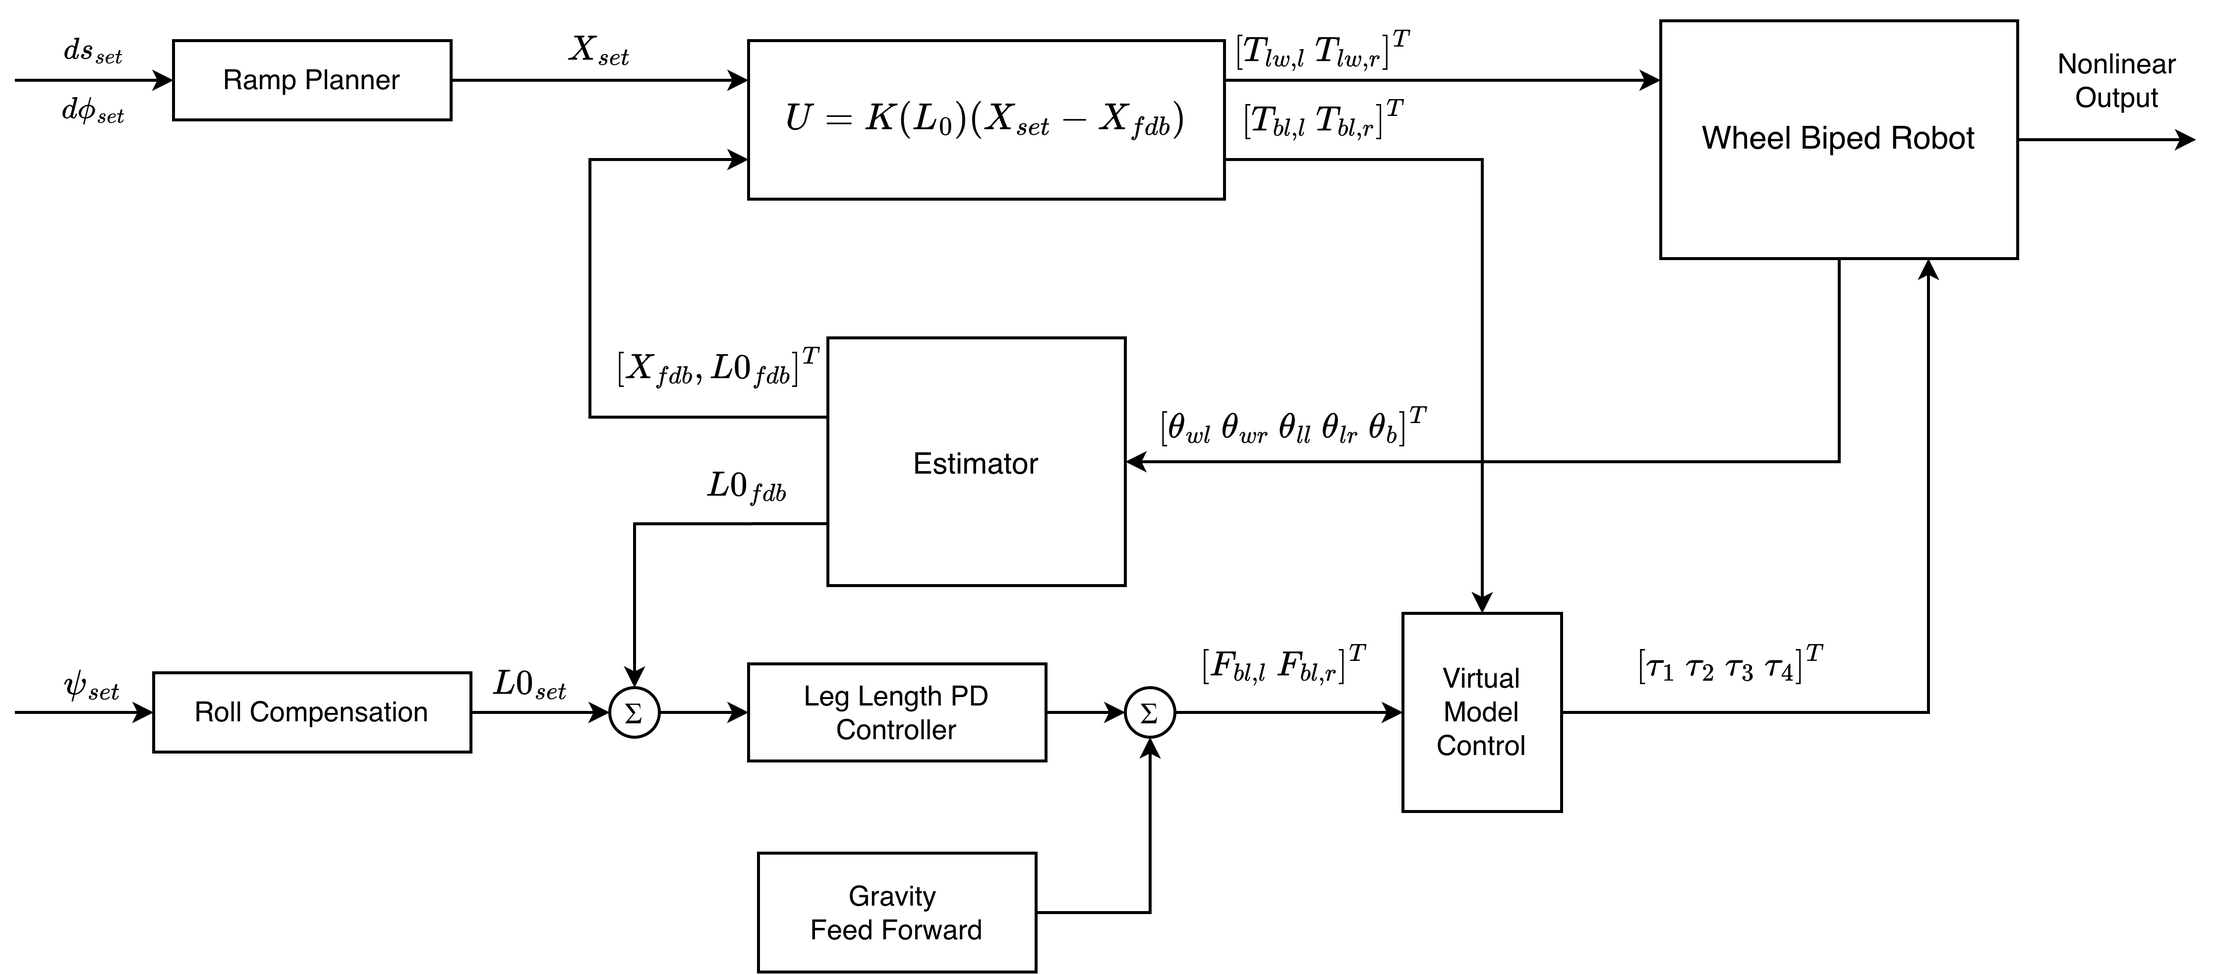
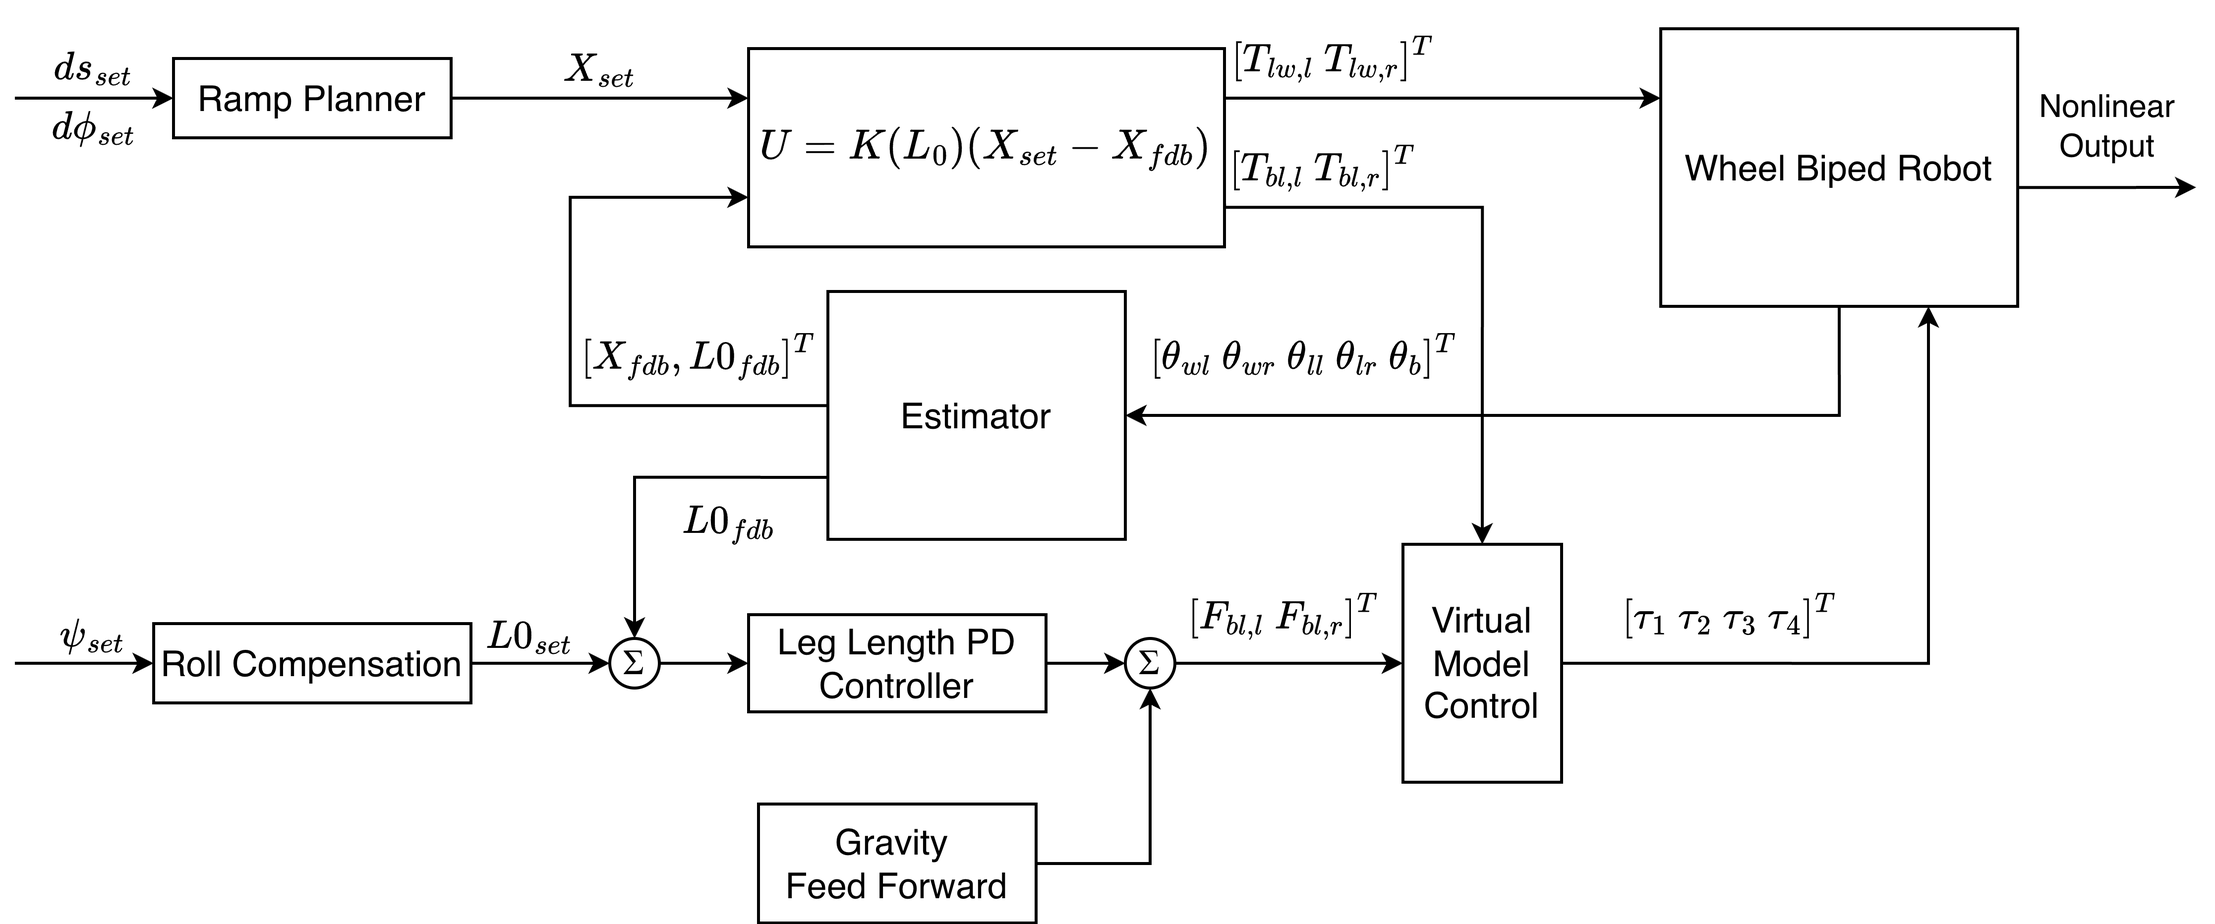
Add new synctex file for main document

diff --git a/chapters/02_mechanical_design.tex b/chapters/02_mechanical_design.tex
@@ -41,7 +41,7 @@
 
 \begin{figure}[H]
   \centering
-  \includegraphics[width=0.52\textwidth]{figures/ch02/image1.png}
+  \includegraphics[width=0.6\textwidth]{figures/ch02/image1.png}
   \caption{腿部连杆机构简图}
   \label{fig:leg-linkage}
 \end{figure}
@@ -56,20 +56,15 @@
   \item 主支撑杆长度：$GI = 160\,\mathrm{mm}$，该尺寸用于形成主要承载支链。
 \end{itemize}
 
-当腿部机构接近最大伸展姿态时，可估算足端最大高度为
-
+当腿部机构接近最大伸展姿态时，可估算足端最大高度为：
 \begin{equation}
   H_{\max} = AB + BC = 160 + 196 = 356\,\mathrm{mm}
 \end{equation}
-
 受机械限位和传动角限制，设定曲柄向上旋转的极限夹角约为水平以上 $30^\circ$，此时腿部最小收缩高度约为
-
 \begin{equation}
   H_{\min} \approx 100\,\mathrm{mm}
 \end{equation}
-
-由此得到腿部有效伸缩行程为
-
+由此得到腿部有效伸缩行程为：
 \begin{equation}
   S_{\mathrm{eff}} = H_{\max} - H_{\min} \approx 256\,\mathrm{mm}
 \end{equation}
@@ -89,16 +84,13 @@
   \centering
   \caption{腿部连杆参数汇总}\label{tab:link-lengths}
   \renewcommand{\arraystretch}{1.2}
-  \begin{tabular}{cc}
+  \begin{tabular}{cccc}
     \toprule
-    连杆代号 & 长度/m \\
+    连杆代号 & 长度/m & 连杆代号 & 长度/m \\
     \midrule
-    AF & 0.08640 \\
-    FG & 0.10584 \\
-    GI & 0.16000 \\
-    IJ & 0.07360 \\
-    JC & 0.25016 \\
-    AB & 0.16000 \\
+    AF & 0.08640 & FG & 0.10584 \\
+    GI & 0.16000 & IJ & 0.07360 \\
+    JC & 0.25016 & AB & 0.16000 \\
     \bottomrule
   \end{tabular}
 \end{table}
@@ -116,6 +108,7 @@
 
 左右髋关节安装结构与躯干框架一体设计。两侧髋部之间采用镂空板材连接，形成近似箱式的承载结构；躯干上方安装 3D 打印电池架，便于固定和拆装电池；主控板、电源模块和驱动器布置在躯干内部或侧面安装区域。这样可以让腿部驱动电机、电池和控制硬件尽量靠近整机中心，减少不必要的偏置载荷。
 
+主要承载板件优先采用碳纤维板材或 7075/6061 铝合金加工。碳纤维板材比刚度较高，适合用于侧板和连接板；铝合金更适合轴承座、电机座等需要较高加工精度的部位。电池架、线束固定件等非主要受力部件采用 3D 打印件，便于快速修改结构。
 \begin{figure}[H]
   \centering
   \includegraphics[width=0.6\textwidth]{figures/ch02/image4.png}
@@ -123,7 +116,6 @@
   \label{fig:body-structure}
 \end{figure}
 
-主要承载板件优先采用碳纤维板材或 7075/6061 铝合金加工。碳纤维板材比刚度较高，适合用于侧板和连接板；铝合金更适合轴承座、电机座等需要较高加工精度的部位。电池架、线束固定件等非主要受力部件采用 3D 打印件，便于快速修改结构。
 
 惯性测量单元尽量安装在靠近机体几何中心的位置，以减小局部振动和结构弹性对姿态测量的影响。电池和驱动器也尽量对称布置，避免左右腿支撑力出现明显静态偏差。
 
@@ -148,30 +140,23 @@
 
 腿部力矩传递采用 9 速自行车链条。与同步带相比，滚子链属于啮合传动，平均传动比更稳定，抗拉强度也更高；与常见工业链条相比，自行车链条宽度较小，有利于控制腿部横向尺寸。
 
-在跳跃落地或快速伸腿工况下，链条会承受较大的瞬时拉力。以腿部电机说明书给出的峰值扭矩 $T_{\text{peak}} = 7\,\mathrm{N\cdot m}$、链轮等效直径 $d = 0.04907\,\mathrm{m}$ 估算，有效圆周力为
-
+在跳跃落地或快速伸腿工况下，链条会承受较大的瞬时拉力。以腿部电机说明书给出的峰值扭矩 $T_{\text{peak}} = 7\,\mathrm{N\cdot m}$、链轮等效直径 $d = 0.04907\,\mathrm{m}$ 估算，有效圆周力为：
 \begin{equation}
   F_t = \frac{2 T_{\text{peak}}}{d}
   = \frac{2 \times 7}{0.04907}
   \approx 285.3\,\mathrm{N}
 \end{equation}
-
 主流 9 速自行车链条的最小破坏载荷通常可达到
-
 \begin{equation}
   F_u \geq 8500\,\mathrm{N}
 \end{equation}
-
 由此可得静强度安全系数
-
 \begin{equation}
   S = \frac{F_u}{F_t}
   = \frac{8500}{285.3}
   \approx 29.79
 \end{equation}
-
 即使考虑冲击载荷系数 $K_A \approx 1.5$，链条强度仍有余量。
-
 \begin{figure}[H]
   \centering
   \includegraphics[width=0.8\textwidth]{figures/ch02/image6.png}
@@ -193,52 +178,40 @@
 \end{figure}
 
 设轮子半径为 $r = 0.06\,\mathrm{m}$，根据最大移动速度指标 $v_{\max} \geq 2\,\mathrm{m/s}$，轮组所需角速度为
-
 \begin{equation}
   \omega = \frac{v_{\max}}{r}
   = \frac{2}{0.06}
   \approx 33.3\,\mathrm{rad/s}
   \approx 318\,\mathrm{RPM}
 \end{equation}
-
 若机器人在 $0.5\,\mathrm{s}$ 内由静止加速至 $2\,\mathrm{m/s}$，所需加速度为
-
 \begin{equation}
   a = 4\,\mathrm{m/s^2}
 \end{equation}
-
 当整机质量取 $M = 5\,\mathrm{kg}$、滚动阻力系数取 $\mu = 0.05$ 时，总牵引力需求为
-
 \begin{equation}
   F_{\text{total}} = Ma + \mu Mg
   = 20 + 0.05 \times 5 \times 9.8
   = 22.45\,\mathrm{N}
 \end{equation}
-
 对应轮组总扭矩为
-
 \begin{equation}
   T_{\text{acc}} = F_{\text{total}} r
   = 22.45 \times 0.06
   \approx 1.35\,\mathrm{N\cdot m}
 \end{equation}
-
 在爬坡工况下，若坡度取 $\alpha = 20^\circ$，重力沿坡面方向的分量为
-
 \begin{equation}
   F_{\text{climb}} = Mg \sin \alpha
   = 5 \times 9.8 \times 0.342
   \approx 16.8\,\mathrm{N}
 \end{equation}
-
 对应爬坡扭矩为
-
 \begin{equation}
   T_{\text{climb}} = F_{\text{climb}} r
   = 16.8 \times 0.06
   \approx 1.01\,\mathrm{N\cdot m}
 \end{equation}
-
 双轮驱动时，单轮连续扭矩需求约为 $0.7 \sim 1.0\,\mathrm{N\cdot m}$。考虑加速、坡面扰动和控制裕度后，选用额定扭矩为 $2.5\,\mathrm{N\cdot m}$ 的减速轮毂电机。
 
 \section{电机选型与校核}
@@ -250,36 +223,28 @@
 腿部关节电机按跳跃起跳、落地缓冲和单腿支撑等工况估算。下文用跳跃起跳估算峰值扭矩，用半蹲支撑估算额定扭矩。
 
 假设机器人需要实现原地跳跃，目标腾空高度为 $H_{\text{jump}} = 0.3\,\mathrm{m}$。根据能量守恒，机器人离地瞬间速度满足
-
 \begin{equation}
   \frac{1}{2} M v_{\text{takeoff}}^2 = M g H_{\text{jump}}
 \end{equation}
-
 解得
-
 \begin{equation}
   v_{\text{takeoff}} = \sqrt{2 g H_{\text{jump}}}
   \approx 2.42\,\mathrm{m/s}
 \end{equation}
-
 若起跳阶段有效伸腿行程取 $h_{\text{acc}} = 0.15\,\mathrm{m}$，由动能定理可得地面对足端的平均反作用力
-
 \begin{equation}
   F_{\text{ground}} =
   \frac{M g H_{\text{jump}}}{h_{\text{acc}}} + Mg
   = \frac{5 \times 9.8 \times 0.3}{0.15} + 49
   = 147\,\mathrm{N}
 \end{equation}
-
 根据虚功原理，足端力与关节力矩满足 $\boldsymbol{\tau} = \boldsymbol{J}^{\mathsf{T}}\boldsymbol{F}$。在典型半蹲姿态下，设等效连杆长度为 $L_{\text{link}} \approx 0.15\,\mathrm{m}$，有效力臂系数取 0.7，则峰值关节力矩可估算为
-
 \begin{equation}
   T_{\text{peak}} \approx
   F_{\text{ground}} L_{\text{link}} \times 0.7
   \approx 147 \times 0.15 \times 0.7
   \approx 15.4\,\mathrm{N\cdot m}
 \end{equation}
-
 上述估算按较保守的工况取值。实际样机为双腿协同支撑，且每条腿由两个主动关节电机和闭环连杆机构共同承担负载，单电机峰值需求会低于该估算。综合质量、体积和控制接口，腿部关节驱动器选用额定扭矩 $3\,\mathrm{N\cdot m}$、峰值扭矩 $7\,\mathrm{N\cdot m}$ 的无刷减速电机。该电机支持 MIT、速度和位置控制模式，满足站立平衡和腿部快速调节需求。
 
 \begin{figure}[H]
@@ -293,31 +258,25 @@
   \centering
   \caption{腿部关节驱动电机关键参数}
   \label{tab:leg-motor-parameters}
-  \begin{tabular}{lcc}
+  \begin{tabular}{lcclcc}
     \toprule
-    参数 & 数值 & 说明 \\
+    参数 & 数值 & 说明 & 参数 & 数值 & 说明\\
     \midrule
-    额定扭矩 & $3\,\mathrm{N\cdot m}$ & 连续输出扭矩 \\
-    峰值扭矩 & $7\,\mathrm{N\cdot m}$ & 短时输出扭矩 \\
-    额定转速 & $120\,\mathrm{r/min}$ & 减速后输出转速 \\
-    空载最大转速 & $200\,\mathrm{r/min}$ & 空载工况 \\
-    减速比 & $10:1$ & 内置减速机构 \\
-    电机质量 & 约 $300\,\mathrm{g}$ & 单个电机 \\
+    额定扭矩 & $3\,\mathrm{N\cdot m}$ & 连续输出扭矩 & 峰值扭矩 & $7\,\mathrm{N\cdot m}$ & 短时输出扭矩 \\
+    额定转速 & $120\,\mathrm{r/min}$ & 减速后输出转速 & 空载最大转速 & $200\,\mathrm{r/min}$ & 空载工况 \\
+    减速比 & $10:1$ & 内置减速机构 & 电机质量 & 约 $300\,\mathrm{g}$ & 单个电机 \\
     \bottomrule
   \end{tabular}
 \end{table}
 
 对于静态或准静态半蹲支撑工况，若按单腿支撑整机重量进行保守估算，有
-
 \begin{equation}
   T_{\text{rated}} =
   Mg L_{\text{link}} \sin 45^\circ
   \approx 5 \times 9.8 \times 0.15 \times 0.707
   \approx 5.2\,\mathrm{N\cdot m}
 \end{equation}
-
 双腿支撑时，单腿持续负载约减半，即约为 $2.6\,\mathrm{N\cdot m}$。所选电机额定扭矩为 $3\,\mathrm{N\cdot m}$，可覆盖该需求，并为姿态调节和小扰动恢复留出余量。
-
 \subsection{轮毂电机}
 
 轮毂电机按第 2.5 节的速度、加速和爬坡需求选型。本文选用额定扭矩为 $2.46\,\mathrm{N\cdot m}$ 的 M3508 减速轮毂电机，并将其直接布置在足端轮组内部。该方案省去额外传动链，轮系角度和速度也可直接用于估计前进位移与速度。
@@ -333,16 +292,13 @@
   \centering
   \caption{足端轮毂电机关键参数}
   \label{tab:wheel-motor-parameters}
-  \begin{tabular}{lcc}
+  \begin{tabular}{lcclcc}
     \toprule
-    参数 & 数值 & 说明 \\
+    参数 & 数值 & 说明 & 参数 & 数值 & 说明\\
     \midrule
-    额定扭矩 & $2.46\,\mathrm{N\cdot m}$ & 减速箱输出端 \\
-    堵转扭矩 & $3.69\,\mathrm{N\cdot m}$ & 短时极限输出 \\
-    额定转速 & $571\,\mathrm{r/min}$ & 减速后输出转速 \\
-    空载转速 & $587\,\mathrm{r/min}$ & 空载工况 \\
-    最大效率 & $70\%$ & 电机效率 \\
-    电机质量 & $336.4\,\mathrm{g}$ & 单个电机 \\
+    额定扭矩 & $2.46\,\mathrm{N\cdot m}$ & 减速箱输出端 & 堵转扭矩 & $3.69\,\mathrm{N\cdot m}$ & 短时极限输出 \\
+    额定转速 & $571\,\mathrm{r/min}$ & 减速后输出转速 &     空载转速 & $587\,\mathrm{r/min}$ & 空载工况 \\
+    最大效率 & $70\%$ & 电机效率 & 电机质量 & $336.4\,\mathrm{g}$ & 单个电机 \\
     \bottomrule
   \end{tabular}
 \end{table}

diff --git a/chapters/00_abstract.tex b/chapters/00_abstract.tex
@@ -7,7 +7,9 @@
 }{双轮足机器人，混合式机构，运动学与动力学建模，LQR-VMC，分层轻量级控制}
 
 \MakeAbstractEng{
-    Wheeled-biped robots combine efficient wheeled locomotion with the terrain adaptability of legged mechanisms, but many existing platforms rely on complex structures, redundant actuators, and computationally demanding controllers. To support compact prototyping and embedded real-time control, this thesis studies a hybrid wheeled-biped robot from the perspectives of mechanical design, dynamic modeling, and lightweight control.
+    Wheeled-biped robots can move efficiently on wheels while using their leg mechanisms to adapt to uneven ground. Many existing wheel-legged platforms, however, use complicated structures, multiple actuators, or controllers with high computational cost, which makes compact prototyping and embedded real-time control difficult. This thesis focuses on a hybrid wheeled-biped robot and studies its mechanical design, dynamic modeling, and lightweight control.
 
-    The robot configuration, closed-chain leg mechanism, body structure, chain transmission, and wheel module are designed, with key actuators selected and verified. For control-oriented modeling, the closed-chain leg is simplified as a telescopic virtual leg; the planar kinematic and dynamic models, the LQR state-space model, and the task-space-to-joint-space torque mapping for VMC are derived. A layered LQR-VMC controller is then developed: LQR handles balance, velocity tracking, and leg-swing torque allocation; VMC regulates leg-length support; and roll-angle-based leg-length correction improves lateral posture. Simulations and prototype experiments on standing balance, velocity tracking, disturbance recovery, leg-length regulation, and roll stabilization show that the proposed mechanism and controller enable stable operation on the physical prototype, verifying their effectiveness and engineering feasibility.
+    In the mechanical design, the overall robot configuration, closed-chain leg mechanism, body structure, chain transmission, and wheel modules are designed, and the main joint motors and hub motors are selected and checked. To support controller design, the closed-chain leg is modeled as a telescopic virtual leg. A planar kinematic and dynamic model is built, a linear state-space model for LQR control is derived, and the kinematic equivalence between the hybrid closed-chain leg and a standard five-bar linkage is analyzed. The torque mapping from the virtual-leg task space to the joint space is also obtained for VMC.
+
+    For control, this thesis proposes a layered LQR-VMC system for embedded real-time implementation. The LQR part handles body balance, velocity tracking, and leg-swing torque allocation, while VMC provides support along the leg-length direction. A roll-angle feedback term adjusts the leg-length difference to improve lateral attitude stability. Simulations and prototype experiments cover standing balance, velocity tracking, disturbance recovery, leg-length adjustment, and roll stabilization. The results show that the mechanical structure and controller can run stably on the physical prototype with relatively low control complexity, which supports the practical feasibility of the proposed method.
 }{wheeled-biped robot, hybrid mechanism, dynamic modeling, LQR-VMC, lightweight control}

diff --git a/chapters/03_modeling.tex b/chapters/03_modeling.tex
@@ -2,7 +2,7 @@
 
 本章先把左右腿等效为可伸缩虚拟杆，建立二维多刚体模型；再针对第二章的混合式闭环连杆机构，给出闭环运动学和任务空间到关节空间的力矩映射；最后将原始广义坐标模型线性化，得到 LQR 控制器所需的状态空间表达式。
 
-\section{建模与假设}
+\section{坐标系与符号定义}
 
 若直接用全部连杆和关节变量建立三维模型，模型精度会更高，但维度较大，约束关系也更复杂，不适合直接放入嵌入式控制器中实时计算。结合本文控制系统的规模，本章模型需要完成以下工作：
 
@@ -46,14 +46,12 @@
 为控制模型复杂度，并使模型与后续分层控制器的职责划分一致，本文作如下假设：
 \begin{enumerate}
   \item 将机器人简化为机体、左腿、右腿、左驱动轮和右驱动轮五部分组成的刚体系统，忽略连杆柔性变形、轴承间隙和摩擦损失对主要动力学行为的影响；
-  \item 忽略腿部闭环连杆机构内部运动产生的附加动力学效应，包括连杆姿态变化、腿长变化和等效惯量变化带来的高阶影响，任一时刻均将腿部视为由当前腿长参数确定的刚体；
   \item 忽略腿部与机体位形变化对驱动轮轴向转动惯量的影响，轮组惯量在建模和控制器设计中取为常值；
   \item 驱动轮与地面满足纯滚动约束，不考虑轮胎侧偏、纵向打滑和接触点弹性变形，后续实验中再结合离地和打滑检测对该假设进行修正；
   \item 机体滚转角由腿部控制器单独补偿，在整机主动力学分析中取滚转角及其一、二阶导数为零，即 $\gamma=\dot{\gamma}=\ddot{\gamma}=0$；
   \item 腿部支撑力由腿部控制器调节，在整机主动力学分析中假设左右腿支撑力保持相等，忽略侧向惯性力矩对运动模型的影响。
 \end{enumerate}
 
-\section{坐标系与符号定义}
 
 机器人简化刚体模型及坐标系如\figref{fig:model-coordinate} 所示。取地面惯性坐标系 $\Sigma_I = \{O_I, s, h\}$，其中 $s$ 轴沿机器人前进方向，$h$ 轴竖直向上。轮轴中心记为点 $W$，髋关节记为点 $H$，机体质心记为点 $B$。等效虚拟腿长度记为 $l$，平均虚拟腿摆角记为 $\theta_l$，机体俯仰角记为 $\theta_b$，轮半径记为 $R_w$，轮轴中心水平位移记为 $s$。系统偏航角记为 $\phi$，仅在后续状态空间变量构造中使用。
 

diff --git a/chapters/01_introduction.tex b/chapters/01_introduction.tex
@@ -163,7 +163,10 @@
 
 \subsection{现有研究存在的问题}
 
-综合现有研究可以看出，双轮足机器人在机构设计与控制方法上均已取得较大进展，但仍存在若干值得进一步研究的问题。在机械结构方面，串联结构虽然具备较大工作空间，但腿部转动惯量较大、结构刚度相对不足；并联结构虽然承载能力强、结构紧凑，但运动范围受限且机构设计复杂；现有混合式结构在一定程度上兼顾了两者优势，但多数平台仍偏向高性能样机验证，面向小型化、轻量化与本科阶段可实现平台的系统性设计研究相对不足。
+综合现有研究可以看出，双轮足机器人在机构设计与控制方法上均已取得较大进展，但仍存在若干值得进一步研究的问题。
+在机械结构方面，串联结构虽然具备较大工作空间，但腿部转动惯量较大、结构刚度相对不足；
+并联结构虽然承载能力强、结构紧凑，但运动范围受限且机构设计复杂；
+现有混合式结构在一定程度上兼顾了两者优势，但多数平台仍偏向高性能样机验证·。
 
 在控制方法方面，当前双轮足机器人普遍采用 WBC、MPC 或强化学习等高性能控制策略。这类方法在复杂任务下具有良好的控制效果，但通常依赖高精度整机模型、大量在线优化计算或海量训练数据，对嵌入式计算平台和样机实现条件提出了较高要求。对于以工程落地和实时控制为导向的双轮足机器人而言，如何在保证平衡性能、越障能力和侧向稳定性的同时，降低算法复杂度和实现门槛，仍是一个有待解决的重要问题。
 

diff --git a/chapters/05_reference_notes.tex b/chapters/05_reference_notes.tex
@@ -44,8 +44,6 @@
   \end{tabular}
 \end{table}
 
-\section{控制参数与实验条件说明}
-
 实物实验采用与第四章一致的分层控制结构。LQR 控制器负责机体俯仰平衡、速度调节和腿摆控制量分配，VMC 控制器负责腿长方向的支撑与高度调节，滚转稳定环节根据测得的滚转角修正左右腿长参考值。与仿真环境相比，实物平台中的执行器带宽、地面接触和传感器噪声均会引入额外不确定性，因此控制参数不能完全直接照搬仿真结果，而需在保证安全性的前提下进行小幅调整。
 
 具体调试过程中，首先在离线模型中求解 LQR 增益矩阵，并在实物样机上以较小输入限幅完成低幅度站立测试；随后逐步提高轮端力矩限幅和姿态反馈增益，使机器人能够在初始姿态偏差下恢复平衡；在主平衡闭环稳定后，再调节 VMC 腿长刚度 $K_l$ 与阻尼 $D_l$，使腿长响应具备足够支撑能力且不产生明显振荡；最后开启滚转稳定，并通过腿长差限幅抑制由滚转角噪声引起的左右腿高频抖动。

diff --git a/todo.md b/todo.md
@@ -1,7 +1,7 @@
 - [ ] bib只检查了前六个
 - [x] 引用tongji论文模版
 - [ ] 第二章连杆设计
-- [ ] 第二章整机
+- [ ] 第二章整机图片
 - [x] tb上截的图怎么标引用？
 - [ ] 删掉公式的逗号
 - [x] 五连杆等效证明过程
@@ -11,3 +11,6 @@
 - [x] 控制框图
 - [ ] 第四章符号统一
 - [x] 全文架构图
+- [ ] 综述图片加引用
+- [x] 第二章的表别太长
+- [ ] base_link
